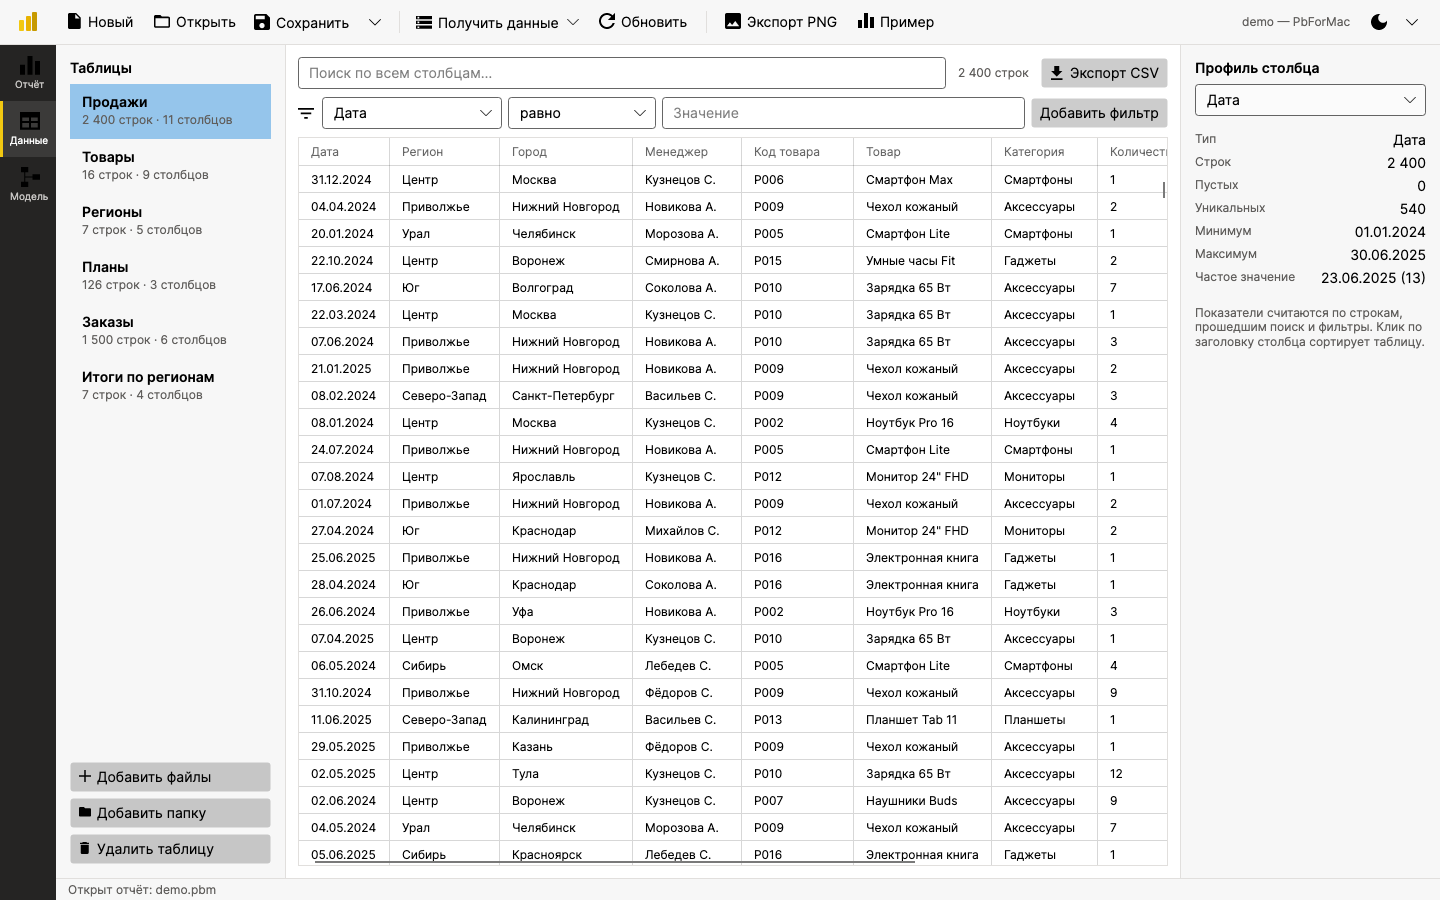
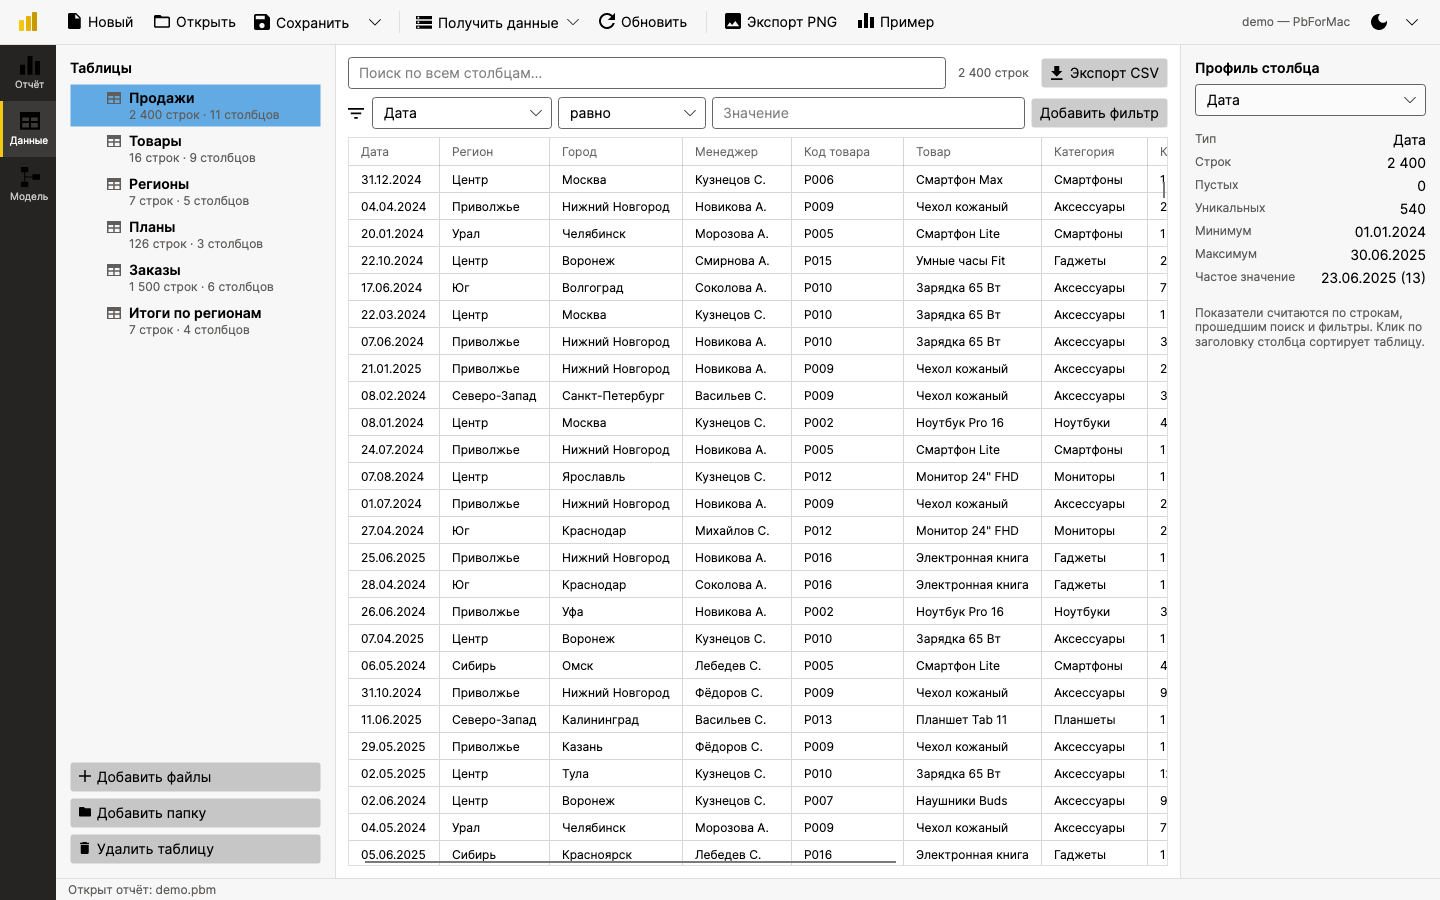
Document the table folder tree and refresh the Data screenshot

Changed region(s): [[0.0312, 0.0622, 0.8125, 0.9644]]

diff --git a/README.md b/README.md
@@ -34,7 +34,8 @@
   - JSON: массив объектов на любом уровне вложенности, вложенные объекты разворачиваются в столбцы `supplier.country`.
   - XML: строки находятся автоматически (повторяющиеся элементы), атрибуты и дочерние элементы становятся столбцами.
   - Типы столбцов (целое, десятичное, дата, логический, текст) определяются автоматически.
-- **Данные** — просмотр таблиц с виртуализацией, сортировка по клику на заголовок, поиск по всем столбцам, быстрые фильтры, профиль столбца (пустые, уникальные, мин/макс, сумма, среднее, частое значение), экспорт в CSV.
+- **Данные** — таблицы разложены по папкам так же, как лежали файлы на диске (папки можно сворачивать и удалять целиком);
+  просмотр таблиц с виртуализацией, сортировка по клику на заголовок, поиск по всем столбцам, быстрые фильтры, профиль столбца (пустые, уникальные, мин/макс, сумма, среднее, частое значение), экспорт в CSV.
 - **Модель** — преобразования в стиле Power Query с журналом «Применённые шаги»:
   переименование, удаление и смена типа столбцов, вычисляемые столбцы, фильтр строк, удаление дубликатов,
   группировка с агрегатами в новую таблицу. Шаги сохраняются в отчёте и повторяются при обновлении данных.
